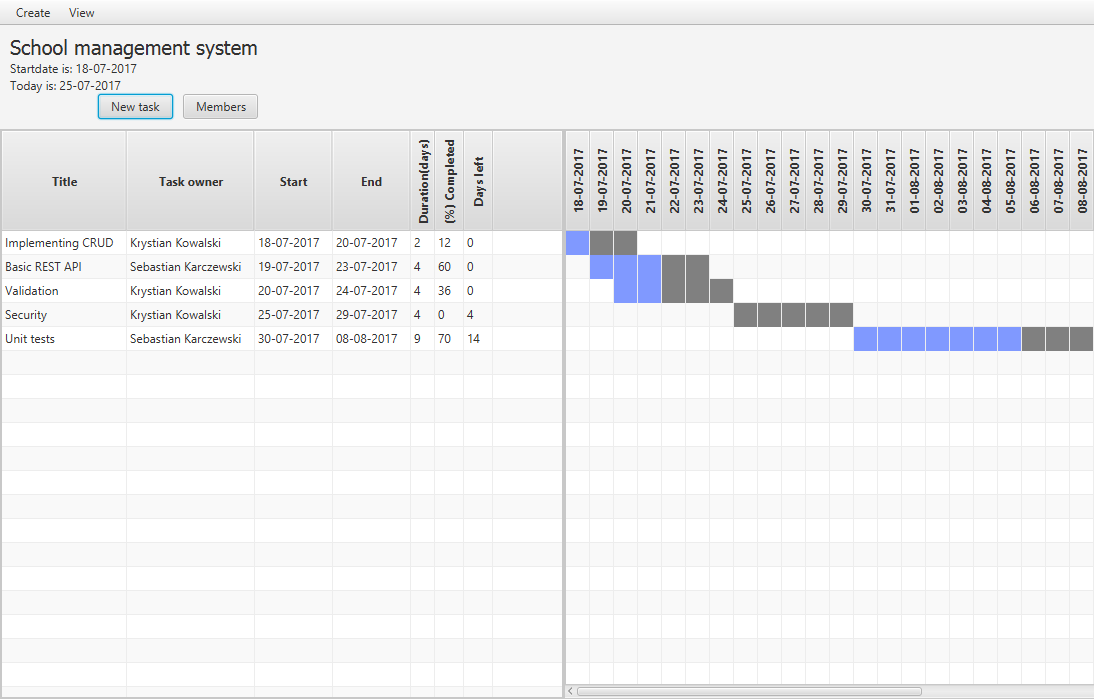
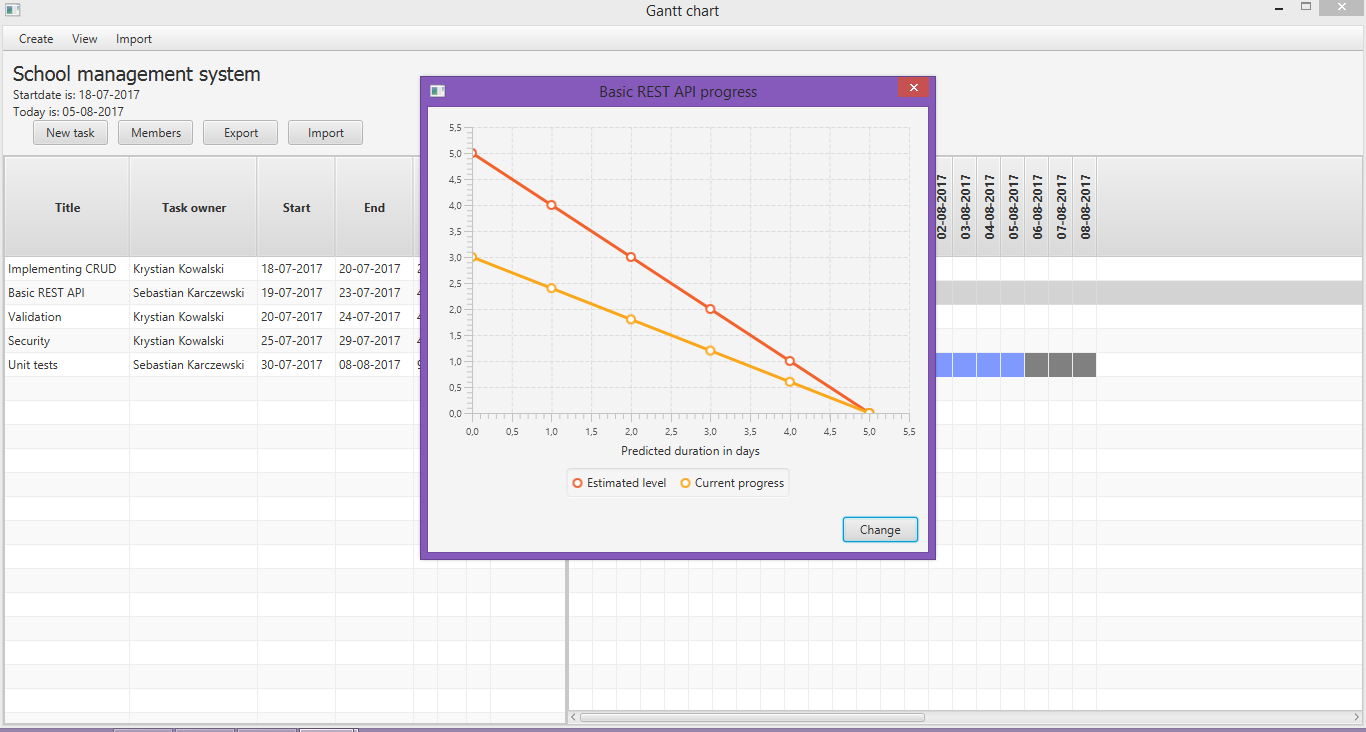
Refactoring, added AssignmentBuilder, changes in Readme

diff --git a/src/test/java/dummy/AssignmentDummy.java b/src/test/java/dummy/AssignmentDummy.java
@@ -2,6 +2,7 @@ package dummy;
 
 import ganttchart.model.Assignment;
 import ganttchart.model.Person;
+import ganttchart.model.builders.AssignmentBuilder;
 
 import java.time.LocalDate;
 import java.util.Arrays;
@@ -18,11 +19,15 @@ public final class AssignmentDummy {
     public static Set<Assignment> assignments1() {
         LocalDate a1begin = LocalDate.of(2017, 4, 10);
         LocalDate a1end = LocalDate.of(2017, 4, 15);
-        Assignment a1 = new Assignment("Creating CRUD", a1begin, a1end, new Person("Adam Smith"));
+
+        Assignment a1 = new AssignmentBuilder().title("Creating CRUD").startDate(a1begin)
+                .finishDate(a1end).taskOwner( new Person("Adam Smith")).build();
 
         LocalDate a2begin = LocalDate.of(2017, 4, 10);
         LocalDate a2end = LocalDate.of(2017, 4, 13);
-        Assignment a2 = new Assignment("Creating REST API", a2begin, a2end, new Person("John Locke"));
+
+        Assignment a2 = new AssignmentBuilder().title("Creating REST API").startDate(a2begin)
+                .finishDate(a2end).taskOwner( new Person("John Locke")).build();
 
         return new LinkedHashSet<>(Arrays.asList(a1, a2));
     }
@@ -30,11 +35,14 @@ public final class AssignmentDummy {
     public static Set<Assignment> assignments2() {
         LocalDate a1begin = LocalDate.of(2017, 7, 5);
         LocalDate a1end = LocalDate.of(2017, 7, 7);
-        Assignment a1 = new Assignment("Developing system", a1begin, a1end, new Person("Hans Zimmerman"));
+        Assignment a1 = new AssignmentBuilder().title("Developing system").startDate(a1begin)
+                .finishDate(a1end).taskOwner( new Person("Hans Zimmerman")).build();
 
         LocalDate a2begin = LocalDate.of(2017, 7, 6);
         LocalDate a2end = LocalDate.of(2017, 7, 10);
-        Assignment a2 = new Assignment("Refactoring", a2begin, a2end, new Person("Krzysztof Marchewka"));
+
+        Assignment a2 = new AssignmentBuilder().title("Refactoring").startDate(a2begin)
+                .finishDate(a2end).taskOwner( new Person("Krzysztof Marchewka")).build();
 
         return new LinkedHashSet<>(Arrays.asList(a1, a2));
     }
@@ -43,14 +51,16 @@ public final class AssignmentDummy {
         LocalDate a1begin = LocalDate.of(2017, 6, 25);
         LocalDate a1end = LocalDate.of(2017, 7, 7);
 
-        return new Assignment("Having a break", a1begin, a1end, new Person("Johny Walker"));
+        return  new AssignmentBuilder().title("Having a break").startDate(a1begin)
+                .finishDate(a1end).taskOwner( new Person("Johny Walker")).build();
     }
 
     public static Assignment single2() {
         LocalDate a1begin = LocalDate.of(2017, 7, 25);
         LocalDate a1end = LocalDate.of(2017, 8, 7);
 
-        return new Assignment("Coming back to work", a1begin, a1end, new Person("Johny Walker"));
+        return  new AssignmentBuilder().title("Coming back to work").startDate(a1begin)
+                .finishDate(a1end).taskOwner( new Person("Johny Walker")).build();
     }
 
 }

diff --git a/src/main/java/ganttchart/gui/elements/dialog/chart/ProgressChart.java b/src/main/java/ganttchart/gui/elements/dialog/chart/ProgressChart.java
@@ -1,7 +1,6 @@
 package ganttchart.gui.elements.dialog.chart;
 
 import ganttchart.model.Assignment;
-import ganttchart.service.AssignmentService;
 import ganttchart.util.FileUtil;
 import javafx.scene.chart.LineChart;
 import javafx.scene.chart.NumberAxis;
@@ -9,8 +8,6 @@ import javafx.scene.chart.XYChart;
 import javafx.scene.control.ButtonBar;
 import javafx.scene.control.ButtonType;
 import javafx.scene.control.Dialog;
-
-import static javafx.scene.input.KeyCode.L;
 
 /**
  * Created by gwszymanowski on 2017-08-05.
@@ -33,9 +30,7 @@ public class ProgressChart extends Dialog<ButtonType> {
         final NumberAxis yAxis = new NumberAxis();
         xAxis.setLabel("Predicted duration in days");
 
-        final LineChart<Number,Number> lineChart =
-                new LineChart<>(xAxis,yAxis);
-
+        final LineChart<Number,Number> lineChart = new LineChart<>(xAxis,yAxis);
 
         lineChart.getData().addAll(estimatedProgressSeries(), currentProgressSeries());
 
@@ -44,7 +39,7 @@ public class ProgressChart extends Dialog<ButtonType> {
 
     private XYChart.Series estimatedProgressSeries() {
         XYChart.Series estimatedProgress = new XYChart.Series();
-
+        estimatedProgress.setName("Estimated level");
         long duration = Math.toIntExact(assignment.getDuration() + 1);
         int start = 0;
         for(long i = duration; i >= 0; i--) {
@@ -56,19 +51,19 @@ public class ProgressChart extends Dialog<ButtonType> {
     }
 
     private XYChart.Series currentProgressSeries() {
-        XYChart.Series estimatedProgress = new XYChart.Series();
-
+        XYChart.Series currentProgress = new XYChart.Series();
+        currentProgress.setName("Current progress");
         long duration = Math.toIntExact(assignment.getDuration() + 1);
         double start = 0;
         double completed = assignment.getCompleted();
         double incrementValue =  completed * 0.01;
 
         for(long i = duration; i >= 0; i--) {
-            estimatedProgress.getData().add(new XYChart.Data(i, start));
+            currentProgress.getData().add(new XYChart.Data(i, start));
             start+=incrementValue;
         }
 
-        return estimatedProgress;
+        return currentProgress;
     }
 
 }

diff --git a/src/main/java/ganttchart/service/AssignmentService.java b/src/main/java/ganttchart/service/AssignmentService.java
@@ -4,6 +4,7 @@ import com.mongodb.BasicDBList;
 import ganttchart.model.Assignment;
 import ganttchart.model.Person;
 import ganttchart.model.Project;
+import ganttchart.model.builders.AssignmentBuilder;
 import ganttchart.util.FileUtil;
 import org.bson.Document;
 
@@ -38,13 +39,12 @@ public final class AssignmentService {
         String finishdateString = (String) document.get("finishDate");
         Integer completed = (Integer) document.get("completed");
 
-        a.setTitle(title);
-        a.setStartDate(FileUtil.convertStringToLocalDate(startdateString));
-        a.setFinishDate(FileUtil.convertStringToLocalDate(finishdateString));
-        a.setCompleted(completed);
-        a.setTaskOwner(new Person(fullname));
+        LocalDate startDate = FileUtil.convertStringToLocalDate(startdateString);
+        LocalDate finishDate = FileUtil.convertStringToLocalDate(finishdateString);
 
-        return a;
+        return new AssignmentBuilder().title(title).startDate(startDate)
+                .finishDate(finishDate).completed(completed)
+                .taskOwner(new Person(fullname)).build();
     }
 
     public static BasicDBList getAssignmentList(final Set<Assignment> assignments) {
@@ -96,12 +96,6 @@ public final class AssignmentService {
     public static Assignment findAssignmentByTitle(Project p, String title) {
         Optional<Assignment> optional = p.getAssignments().stream().filter(x -> x.getTitle().equals(title)).findFirst();
         return optional.get();
-    }
-
-    public static long getLatePenalty(Assignment assignment) {
-        int daysCount = getDayNumber(assignment.getStartDate(), assignment.getFinishDate());
-        int currentCount = getDayNumber(assignment.getStartDate(), LocalDate.now());
-        return currentCount/daysCount;
     }
 
 }

diff --git a/src/main/java/ganttchart/model/builders/AssignmentBuilder.java b/src/main/java/ganttchart/model/builders/AssignmentBuilder.java
@@ -1,0 +1,48 @@
+package ganttchart.model.builders;
+
+import ganttchart.model.Assignment;
+import ganttchart.model.Person;
+
+import java.time.LocalDate;
+
+/**
+ * Created by gwszymanowski on 2017-08-05.
+ */
+public class AssignmentBuilder {
+
+    private Assignment assignment;
+
+    public AssignmentBuilder(){
+        this.assignment = new Assignment();
+    }
+
+    public Assignment build() {
+        return assignment;
+    }
+
+    public AssignmentBuilder title(String title) {
+        assignment.setTitle(title);
+        return this;
+    }
+
+    public AssignmentBuilder startDate(LocalDate startDate) {
+        assignment.setStartDate(startDate);
+        return this;
+    }
+
+    public AssignmentBuilder finishDate(LocalDate finishDate) {
+        assignment.setFinishDate(finishDate);
+        return this;
+    }
+
+    public AssignmentBuilder taskOwner(Person taskOwner) {
+        assignment.setTaskOwner(taskOwner);
+        return this;
+    }
+
+    public AssignmentBuilder completed(int completed) {
+        assignment.setCompleted(completed);
+        return this;
+    }
+
+}

diff --git a/src/main/java/ganttchart/model/Assignment.java b/src/main/java/ganttchart/model/Assignment.java
@@ -28,16 +28,7 @@ public class Assignment implements Comparable<Assignment>, Serializable {
     public Assignment() {
     }
 
-    public Assignment(String title, LocalDate startDate, LocalDate finishDate) {
-        this.title = title;
-        this.startDate = startDate;
-        this.finishDate = finishDate;
-    }
 
-    public Assignment(String title, LocalDate startDate, LocalDate finishDate, Person taskOwner) {
-        this(title, startDate, finishDate);
-        this.taskOwner = taskOwner;
-    }
 
     @XmlElement(name = "title")
     public String getTitle() {

diff --git a/src/main/java/ganttchart/gui/elements/dialog/AssignmentDialog.java b/src/main/java/ganttchart/gui/elements/dialog/AssignmentDialog.java
@@ -3,6 +3,7 @@ package ganttchart.gui.elements.dialog;
 import ganttchart.model.Assignment;
 import ganttchart.model.Person;
 import ganttchart.model.Project;
+import ganttchart.model.builders.AssignmentBuilder;
 import ganttchart.repository.ProjectRepository;
 import ganttchart.service.ProjectService;
 import ganttchart.gui.elements.alert.AlertFactory;
@@ -61,7 +62,6 @@ public class AssignmentDialog extends Dialog<ButtonType> implements Dialogable {
             }
 
             project.addAssignment(ass);
-
             repo.update(project);
         }
 

diff --git a/src/main/java/ganttchart/controller/AssignmentController.java b/src/main/java/ganttchart/controller/AssignmentController.java
@@ -217,9 +217,7 @@ public class AssignmentController implements Initializable {
                     dialog.marshalize(new XMLSerializator(Project.class));
 
             }
-
         }
     }
-
 
 }

diff --git a/Readme.md b/Readme.md
@@ -2,6 +2,17 @@
 
 Prosta aplikacja w javafx służąca do zarządzania zadaniami. Baza danych znajduje się na chmurze mongodb atlas.
 
+## Funkcjonalności
+> CRUD dla encji Person, Project, Assignment
+> Pasek postępu w widoku jest zależny od zmiennej 'completed' w encji Assignment
+> Eksportowanie danych do pliku w formacie JSON lub XML
+> Importowanie danych z pliku w formacie JSON lub XML
+> Wyświetlenie diagramu poglądowego dla postępu w realizacji zadania
+
+
 ## Screenshot
 
+![Screenshot](example1.png)
+
 ![Screenshot](example.png)
+
